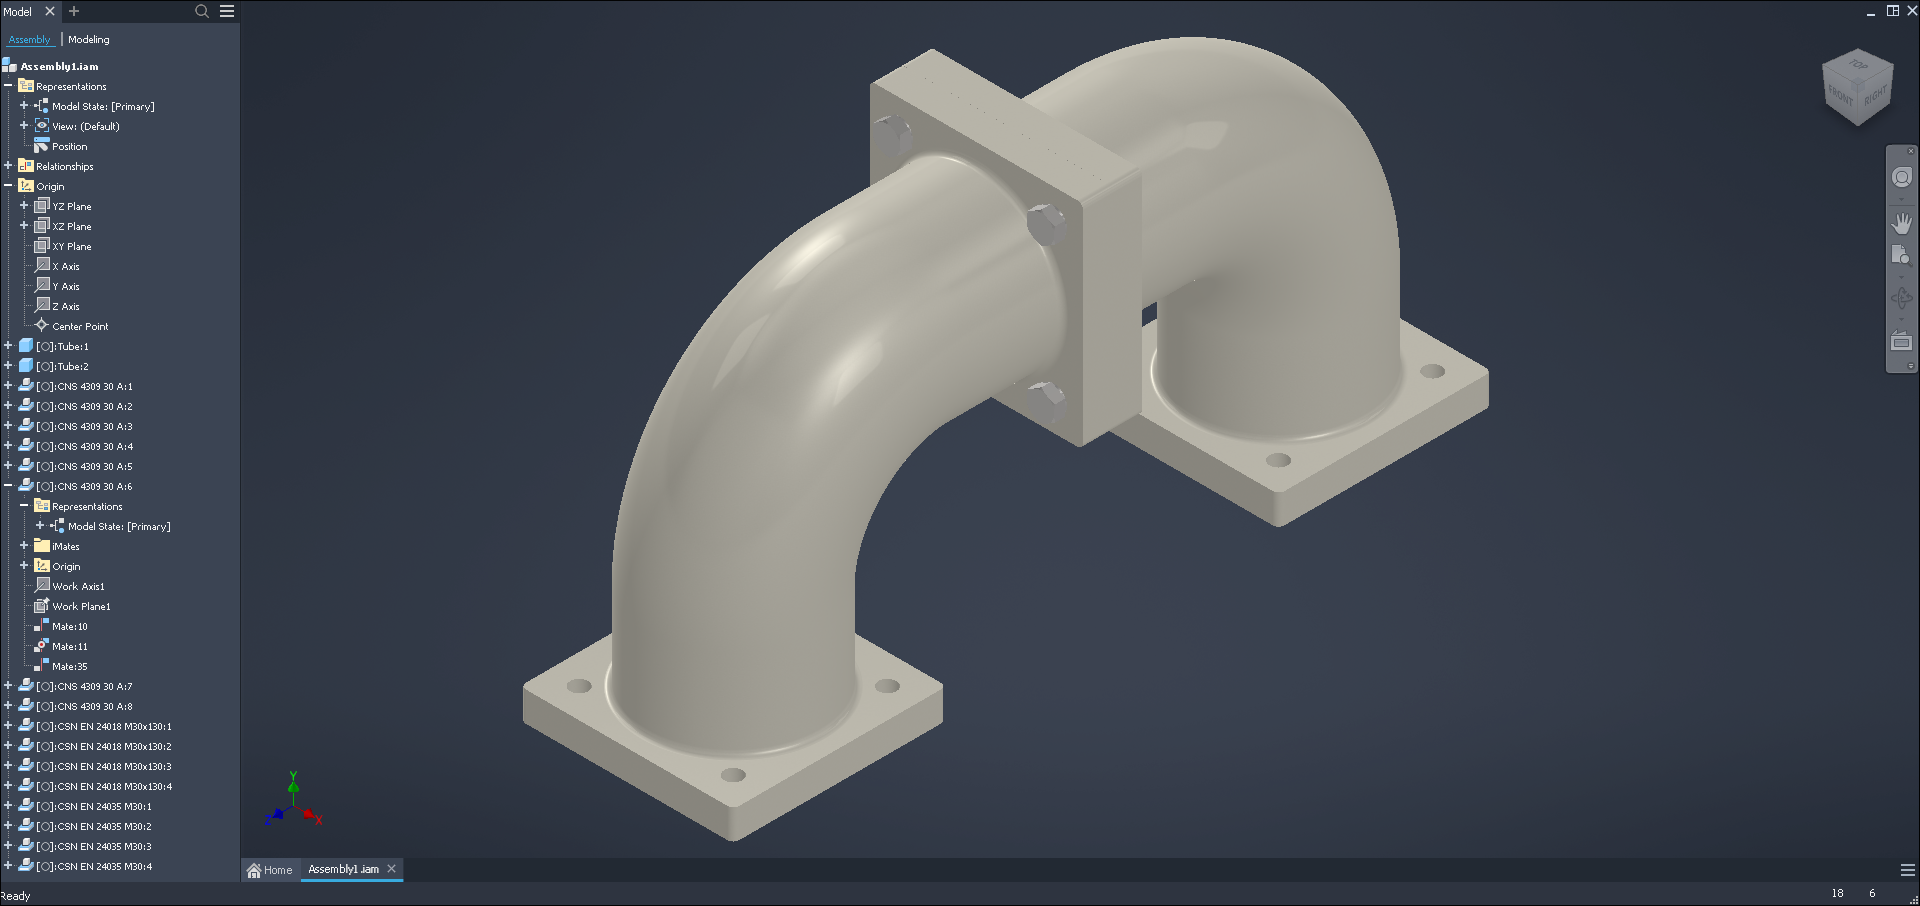
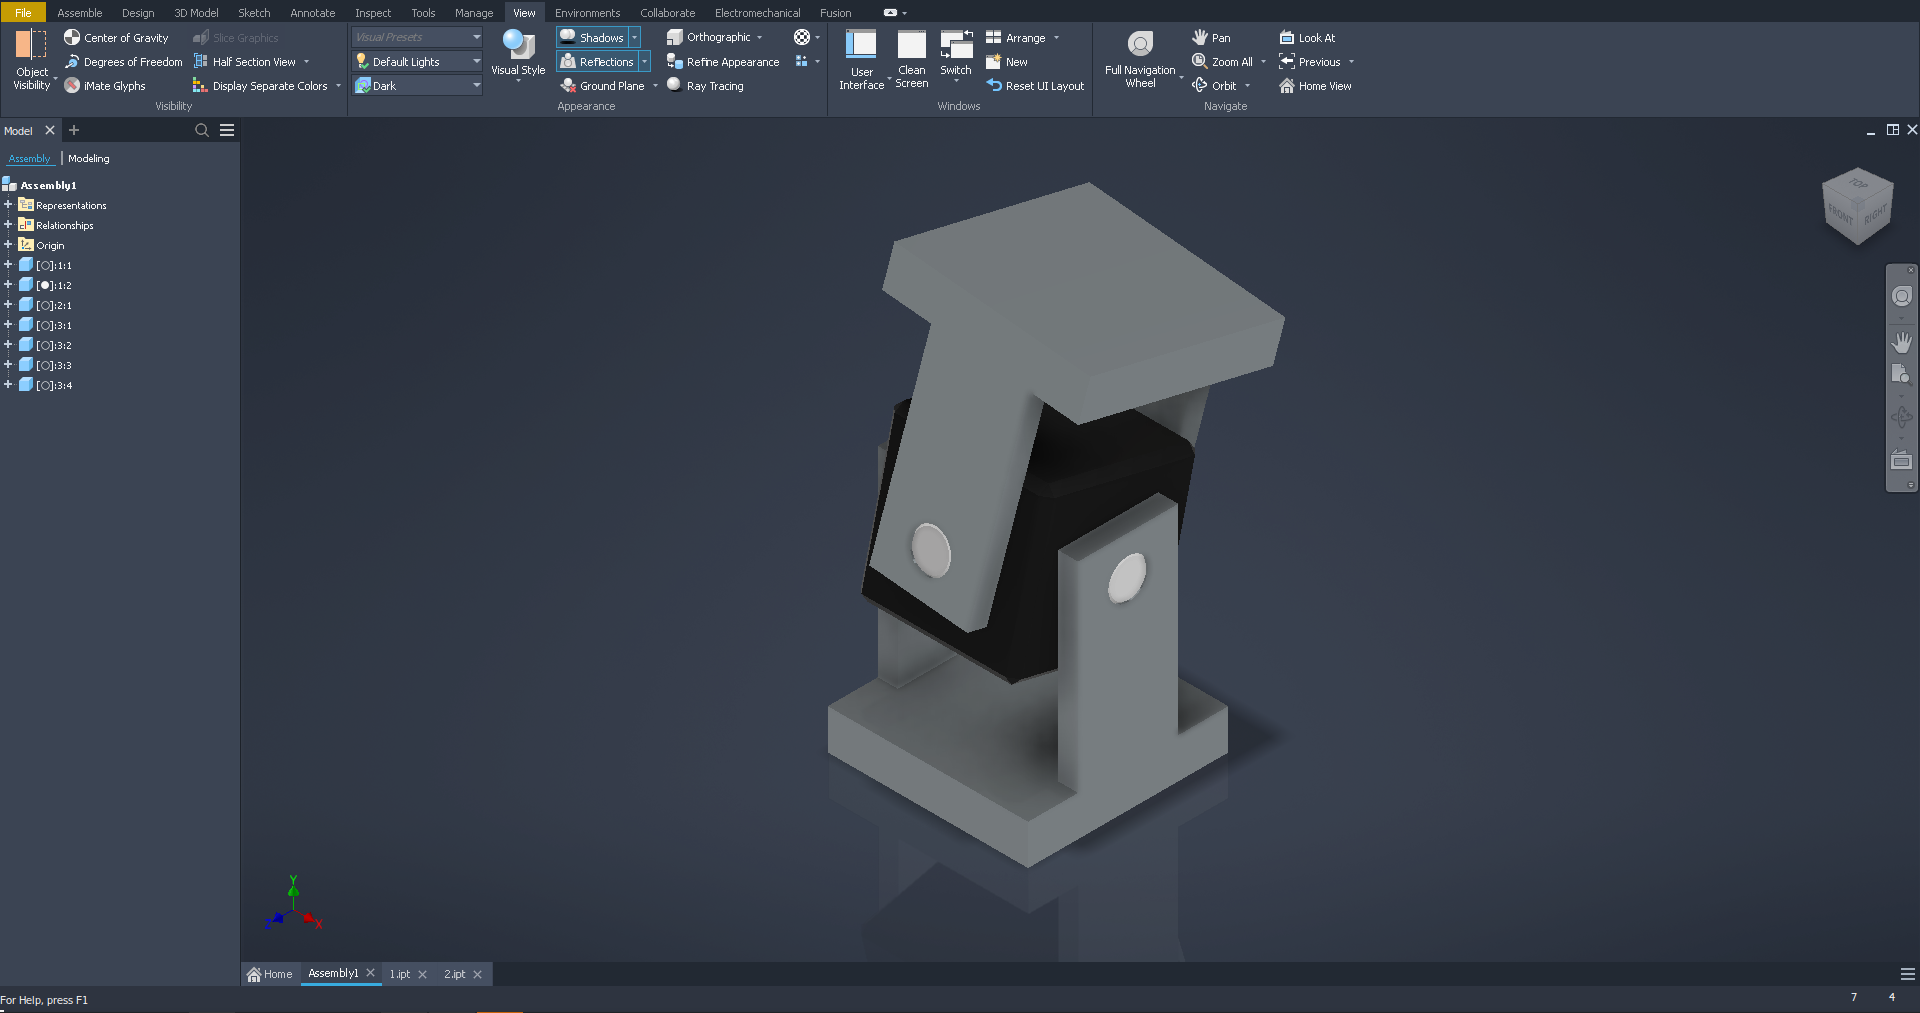
README: new assembly screenshot
Claude-Session: https://claude.ai/code/session_01E54TfcPneXHKA9uoPAKN3t

diff --git a/README.md b/README.md
@@ -27,7 +27,7 @@ bash scripts/install.sh ~/Downloads/Inventor     # the folder with Autodesk's do
 <table>
   <tr>
     <td><img src="docs/images/part.png" alt="A part"></td>
-    <td><img src="docs/images/assembly.png" alt="An assembly with Content Center bolts and nuts"></td>
+    <td><img src="docs/images/assembly.png" alt="An assembly with constraints, shadows and reflections"></td>
   </tr>
   <tr>
     <td align="center">Part modelling</td>
